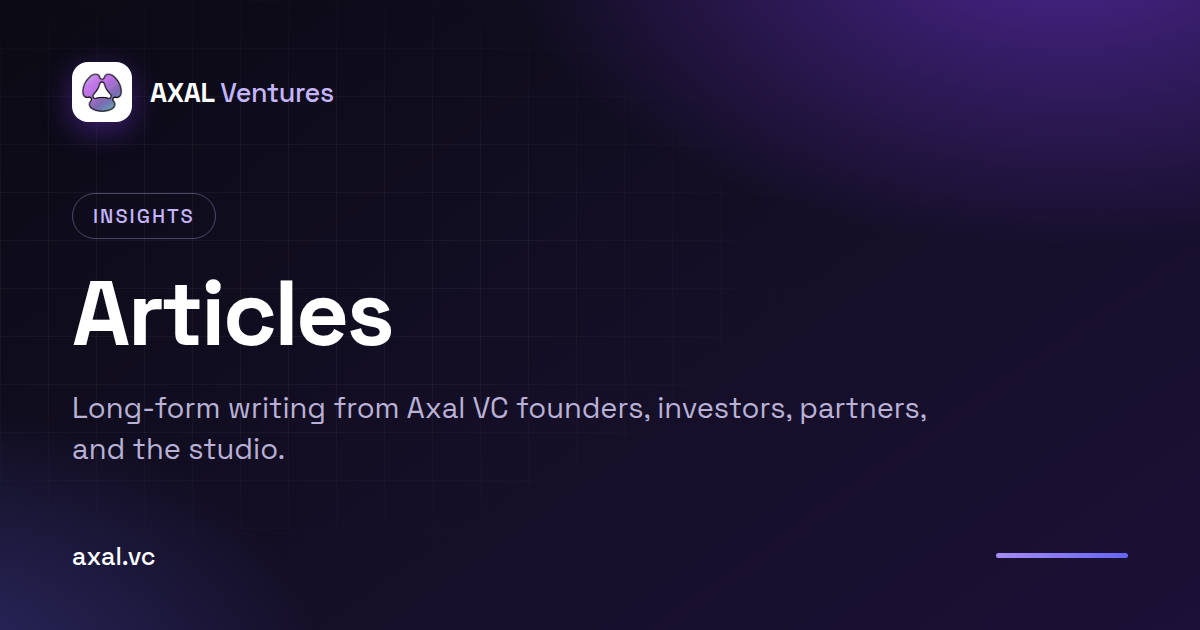
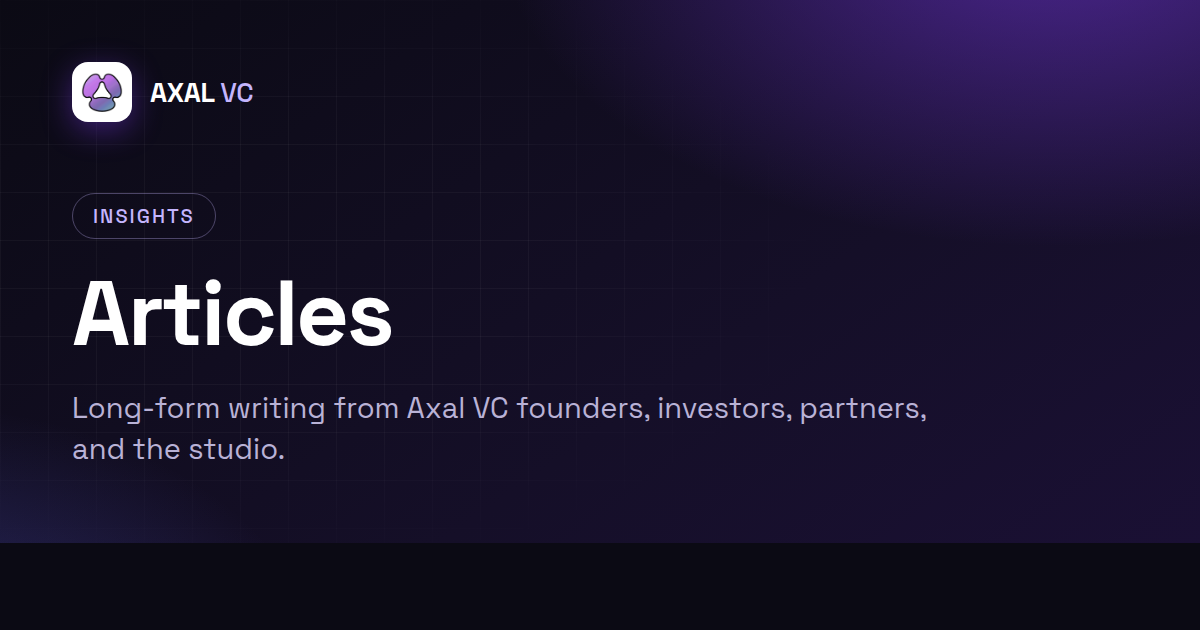
OG: fix legacy brand name on cards; clear three Semgrep findings
Brand
-----
The cards said "Axal Ventures" — the legacy name. CHANGELOG.md:4231 already
records the rename ("Axal Ventures" -> "Axal VC"); this script reintroduced it
in seven places, and unlike a string in a JS bundle it was BAKED INTO THE PNGs
that WhatsApp/iMessage/LinkedIn show. ogRegistry.js had it right throughout, so
the cards disagreed with their own metadata.

Six were the `eyebrow`/section labels. The seventh was the logo lockup, written
as `AXAL <span>Ventures</span>` — split across elements, so a search for the
literal string never matched it. All 13 cards re-rendered; verified visually.

Semgrep (3 findings, all in this PR's new scripts)
--------------------------------------------------
Both are false positives as stated — these are build scripts with no external
input — but both had a cleaner form that removes the construct entirely rather
than suppressing the rule.

- generate-og-images.mjs `unknown-value-with-script-tag`: the viewport probe
  wrote a page with an inline <script> that reported innerHeight. Replaced with
  a screenshot of a blank page, measured via the pngSize() helper already in
  this file. Measures the artifact we actually care about, and leaves no inline
  <script> for a scanner to reason about. Verified live: all 13 cards still come
  out at exactly 1200x630, which is what the probe exists to guarantee — a
  broken offset yields 1200x543.

- validate-og-tags.mjs `detect-non-literal-regexp` (x2): meta() and countTag()
[…]

Changed region(s): [[0.4933, 0.8444, 1.0, 1.0], [0.0, 0.8444, 0.2467, 1.0], [0.185, 0.1206, 0.2775, 0.181]]

diff --git a/docs/for-service-partners/index.html b/docs/for-service-partners/index.html
@@ -12,8 +12,8 @@
   <meta property="og:title" content="For Service Partners — Axal VC StudioOS" />
   <meta property="og:description" content="List your services in the Axal VC marketplace, get in front of funded founders, and turn network trust into inbound leads. Distribution for legal, design, GTM and technical partners." />
   <meta property="og:url" content="https://axal.vc/for-service-partners" />
-  <meta property="og:image" content="https://axal.vc/og/product-service-partners.png?v=b3464c1d" />
-  <meta property="og:image:secure_url" content="https://axal.vc/og/product-service-partners.png?v=b3464c1d" />
+  <meta property="og:image" content="https://axal.vc/og/product-service-partners.png?v=b64d1e59" />
+  <meta property="og:image:secure_url" content="https://axal.vc/og/product-service-partners.png?v=b64d1e59" />
   <meta property="og:image:type" content="image/png" />
   <meta property="og:image:width" content="1200" />
   <meta property="og:image:height" content="630" />
@@ -22,7 +22,7 @@
   <meta name="twitter:card" content="summary_large_image" />
   <meta name="twitter:title" content="For Service Partners — Axal VC StudioOS" />
   <meta name="twitter:description" content="List your services in the Axal VC marketplace, get in front of funded founders, and turn network trust into inbound leads. Distribution for legal, design, GTM and technical partners." />
-  <meta name="twitter:image" content="https://axal.vc/og/product-service-partners.png?v=b3464c1d" />
+  <meta name="twitter:image" content="https://axal.vc/og/product-service-partners.png?v=b64d1e59" />
   <meta name="twitter:image:alt" content="For Service Partners" />
   <!-- END og:managed -->
   <script>

diff --git a/docs/for-investors/index.html b/docs/for-investors/index.html
@@ -12,8 +12,8 @@
   <meta property="og:title" content="For Investors &amp; LPs — Axal VC StudioOS" />
   <meta property="og:description" content="Source, screen and diligence better deals in less time. AI scoring, a built-in CRM, warm founder intros and portfolio visibility for angels, funds and LPs." />
   <meta property="og:url" content="https://axal.vc/for-investors" />
-  <meta property="og:image" content="https://axal.vc/og/product-investors.png?v=7cd298a0" />
-  <meta property="og:image:secure_url" content="https://axal.vc/og/product-investors.png?v=7cd298a0" />
+  <meta property="og:image" content="https://axal.vc/og/product-investors.png?v=f54ae8c5" />
+  <meta property="og:image:secure_url" content="https://axal.vc/og/product-investors.png?v=f54ae8c5" />
   <meta property="og:image:type" content="image/png" />
   <meta property="og:image:width" content="1200" />
   <meta property="og:image:height" content="630" />
@@ -22,7 +22,7 @@
   <meta name="twitter:card" content="summary_large_image" />
   <meta name="twitter:title" content="For Investors &amp; LPs — Axal VC StudioOS" />
   <meta name="twitter:description" content="Source, screen and diligence better deals in less time. AI scoring, a built-in CRM, warm founder intros and portfolio visibility for angels, funds and LPs." />
-  <meta name="twitter:image" content="https://axal.vc/og/product-investors.png?v=7cd298a0" />
+  <meta name="twitter:image" content="https://axal.vc/og/product-investors.png?v=f54ae8c5" />
   <meta name="twitter:image:alt" content="For Investors &amp; LPs" />
   <!-- END og:managed -->
   <script>

diff --git a/docs/for-founders/index.html b/docs/for-founders/index.html
@@ -12,8 +12,8 @@
   <meta property="og:title" content="For Founders — Axal VC StudioOS" />
   <meta property="og:description" content="Everything you need to go from idea to funded — a startup workspace, pitch deck builder, venture-readiness scoring, and warm investor intros on the Axal VC network." />
   <meta property="og:url" content="https://axal.vc/for-founders" />
-  <meta property="og:image" content="https://axal.vc/og/product-founders.png?v=735998bb" />
-  <meta property="og:image:secure_url" content="https://axal.vc/og/product-founders.png?v=735998bb" />
+  <meta property="og:image" content="https://axal.vc/og/product-founders.png?v=dece2995" />
+  <meta property="og:image:secure_url" content="https://axal.vc/og/product-founders.png?v=dece2995" />
   <meta property="og:image:type" content="image/png" />
   <meta property="og:image:width" content="1200" />
   <meta property="og:image:height" content="630" />
@@ -22,7 +22,7 @@
   <meta name="twitter:card" content="summary_large_image" />
   <meta name="twitter:title" content="For Founders — Axal VC StudioOS" />
   <meta name="twitter:description" content="Everything you need to go from idea to funded — a startup workspace, pitch deck builder, venture-readiness scoring, and warm investor intros on the Axal VC network." />
-  <meta name="twitter:image" content="https://axal.vc/og/product-founders.png?v=735998bb" />
+  <meta name="twitter:image" content="https://axal.vc/og/product-founders.png?v=dece2995" />
   <meta name="twitter:image:alt" content="For Founders" />
   <!-- END og:managed -->
   <script>

diff --git a/docs/for-advisors/index.html b/docs/for-advisors/index.html
@@ -12,8 +12,8 @@
   <meta property="og:title" content="For Advisors — Axal VC StudioOS" />
   <meta property="og:description" content="Build a credible advisor profile, get matched with founders who need your expertise, and run sessions through structured office hours on the Axal VC network." />
   <meta property="og:url" content="https://axal.vc/for-advisors" />
-  <meta property="og:image" content="https://axal.vc/og/product-advisors.png?v=dd0b822a" />
-  <meta property="og:image:secure_url" content="https://axal.vc/og/product-advisors.png?v=dd0b822a" />
+  <meta property="og:image" content="https://axal.vc/og/product-advisors.png?v=78559744" />
+  <meta property="og:image:secure_url" content="https://axal.vc/og/product-advisors.png?v=78559744" />
   <meta property="og:image:type" content="image/png" />
   <meta property="og:image:width" content="1200" />
   <meta property="og:image:height" content="630" />
@@ -22,7 +22,7 @@
   <meta name="twitter:card" content="summary_large_image" />
   <meta name="twitter:title" content="For Advisors — Axal VC StudioOS" />
   <meta name="twitter:description" content="Build a credible advisor profile, get matched with founders who need your expertise, and run sessions through structured office hours on the Axal VC network." />
-  <meta name="twitter:image" content="https://axal.vc/og/product-advisors.png?v=dd0b822a" />
+  <meta name="twitter:image" content="https://axal.vc/og/product-advisors.png?v=78559744" />
   <meta name="twitter:image:alt" content="For Advisors" />
   <!-- END og:managed -->
   <script>

diff --git a/docs/spinout-lab/index.html b/docs/spinout-lab/index.html
@@ -12,8 +12,8 @@
   <meta property="og:title" content="Spin-Out Lab — Axal VC StudioOS" />
   <meta property="og:description" content="A structured sprint that takes a company from idea to incorporated and funded — customer discovery, venture-readiness scoring, entity formation, and demo day." />
   <meta property="og:url" content="https://axal.vc/spinout-lab" />
-  <meta property="og:image" content="https://axal.vc/og/spinout-lab.png?v=06c7aee7" />
-  <meta property="og:image:secure_url" content="https://axal.vc/og/spinout-lab.png?v=06c7aee7" />
+  <meta property="og:image" content="https://axal.vc/og/spinout-lab.png?v=c72b2c5b" />
+  <meta property="og:image:secure_url" content="https://axal.vc/og/spinout-lab.png?v=c72b2c5b" />
   <meta property="og:image:type" content="image/png" />
   <meta property="og:image:width" content="1200" />
   <meta property="og:image:height" content="630" />
@@ -22,7 +22,7 @@
   <meta name="twitter:card" content="summary_large_image" />
   <meta name="twitter:title" content="Spin-Out Lab — Axal VC StudioOS" />
   <meta name="twitter:description" content="A structured sprint that takes a company from idea to incorporated and funded — customer discovery, venture-readiness scoring, entity formation, and demo day." />
-  <meta name="twitter:image" content="https://axal.vc/og/spinout-lab.png?v=06c7aee7" />
+  <meta name="twitter:image" content="https://axal.vc/og/spinout-lab.png?v=c72b2c5b" />
   <meta name="twitter:image:alt" content="Spin-Out Lab" />
   <!-- END og:managed -->
   <script>

diff --git a/docs/index.html b/docs/index.html
@@ -12,8 +12,8 @@
   <meta property="og:title" content="From idea to funded company — Axal VC StudioOS" />
   <meta property="og:description" content="One network connecting partners, capital, and founders. Spin-Out Lab takes companies from idea to funded in 30 days." />
   <meta property="og:url" content="https://axal.vc/" />
-  <meta property="og:image" content="https://axal.vc/og/home.png?v=1e0dde2f" />
-  <meta property="og:image:secure_url" content="https://axal.vc/og/home.png?v=1e0dde2f" />
+  <meta property="og:image" content="https://axal.vc/og/home.png?v=88aa287c" />
+  <meta property="og:image:secure_url" content="https://axal.vc/og/home.png?v=88aa287c" />
   <meta property="og:image:type" content="image/png" />
   <meta property="og:image:width" content="1200" />
   <meta property="og:image:height" content="630" />
@@ -22,7 +22,7 @@
   <meta name="twitter:card" content="summary_large_image" />
   <meta name="twitter:title" content="From idea to funded company — Axal VC StudioOS" />
   <meta name="twitter:description" content="One network connecting partners, capital, and founders. Spin-Out Lab takes companies from idea to funded in 30 days." />
-  <meta name="twitter:image" content="https://axal.vc/og/home.png?v=1e0dde2f" />
+  <meta name="twitter:image" content="https://axal.vc/og/home.png?v=88aa287c" />
   <meta name="twitter:image:alt" content="From idea to funded company" />
   <!-- END og:managed -->
   <script>

diff --git a/docs/demo/index.html b/docs/demo/index.html
@@ -12,8 +12,8 @@
   <meta property="og:title" content="Book a demo — Axal VC StudioOS" />
   <meta property="og:description" content="See Axal VC StudioOS live — pick a product demo, investor brief, or partnership intro." />
   <meta property="og:url" content="https://axal.vc/demo" />
-  <meta property="og:image" content="https://axal.vc/og/company.png?v=7d75c4c4" />
-  <meta property="og:image:secure_url" content="https://axal.vc/og/company.png?v=7d75c4c4" />
+  <meta property="og:image" content="https://axal.vc/og/company.png?v=4c30a70f" />
+  <meta property="og:image:secure_url" content="https://axal.vc/og/company.png?v=4c30a70f" />
   <meta property="og:image:type" content="image/png" />
   <meta property="og:image:width" content="1200" />
   <meta property="og:image:height" content="630" />
@@ -22,7 +22,7 @@
   <meta name="twitter:card" content="summary_large_image" />
   <meta name="twitter:title" content="Book a demo — Axal VC StudioOS" />
   <meta name="twitter:description" content="See Axal VC StudioOS live — pick a product demo, investor brief, or partnership intro." />
-  <meta name="twitter:image" content="https://axal.vc/og/company.png?v=7d75c4c4" />
+  <meta name="twitter:image" content="https://axal.vc/og/company.png?v=4c30a70f" />
   <meta name="twitter:image:alt" content="Book a demo" />
   <!-- END og:managed -->
   <script>

diff --git a/docs/about/index.html b/docs/about/index.html
@@ -12,8 +12,8 @@
   <meta property="og:title" content="About — Axal VC StudioOS" />
   <meta property="og:description" content="Who we are, how the studio operates, and why we build companies alongside the founders we back." />
   <meta property="og:url" content="https://axal.vc/about" />
-  <meta property="og:image" content="https://axal.vc/og/company.png?v=7d75c4c4" />
-  <meta property="og:image:secure_url" content="https://axal.vc/og/company.png?v=7d75c4c4" />
+  <meta property="og:image" content="https://axal.vc/og/company.png?v=4c30a70f" />
+  <meta property="og:image:secure_url" content="https://axal.vc/og/company.png?v=4c30a70f" />
   <meta property="og:image:type" content="image/png" />
   <meta property="og:image:width" content="1200" />
   <meta property="og:image:height" content="630" />
@@ -22,7 +22,7 @@
   <meta name="twitter:card" content="summary_large_image" />
   <meta name="twitter:title" content="About — Axal VC StudioOS" />
   <meta name="twitter:description" content="Who we are, how the studio operates, and why we build companies alongside the founders we back." />
-  <meta name="twitter:image" content="https://axal.vc/og/company.png?v=7d75c4c4" />
+  <meta name="twitter:image" content="https://axal.vc/og/company.png?v=4c30a70f" />
   <meta name="twitter:image:alt" content="About" />
   <!-- END og:managed -->
   <script>

diff --git a/docs/pricing/index.html b/docs/pricing/index.html
@@ -12,8 +12,8 @@
   <meta property="og:title" content="Pricing — Axal VC StudioOS" />
   <meta property="og:description" content="Simple, transparent pricing for founders and investors. Start free, upgrade when you raise." />
   <meta property="og:url" content="https://axal.vc/pricing" />
-  <meta property="og:image" content="https://axal.vc/og/pricing.png?v=78d39a47" />
-  <meta property="og:image:secure_url" content="https://axal.vc/og/pricing.png?v=78d39a47" />
+  <meta property="og:image" content="https://axal.vc/og/pricing.png?v=410ae5e8" />
+  <meta property="og:image:secure_url" content="https://axal.vc/og/pricing.png?v=410ae5e8" />
   <meta property="og:image:type" content="image/png" />
   <meta property="og:image:width" content="1200" />
   <meta property="og:image:height" content="630" />
@@ -22,7 +22,7 @@
   <meta name="twitter:card" content="summary_large_image" />
   <meta name="twitter:title" content="Pricing — Axal VC StudioOS" />
   <meta name="twitter:description" content="Simple, transparent pricing for founders and investors. Start free, upgrade when you raise." />
-  <meta name="twitter:image" content="https://axal.vc/og/pricing.png?v=78d39a47" />
+  <meta name="twitter:image" content="https://axal.vc/og/pricing.png?v=410ae5e8" />
   <meta name="twitter:image:alt" content="Pricing" />
   <!-- END og:managed -->
   <script>

diff --git a/docs/status/index.html b/docs/status/index.html
@@ -12,8 +12,8 @@
   <meta property="og:title" content="System status — Axal VC StudioOS" />
   <meta property="og:description" content="Real-time health of Axal VC StudioOS services, plus a 90-day uptime history." />
   <meta property="og:url" content="https://axal.vc/status" />
-  <meta property="og:image" content="https://axal.vc/og/company.png?v=7d75c4c4" />
-  <meta property="og:image:secure_url" content="https://axal.vc/og/company.png?v=7d75c4c4" />
+  <meta property="og:image" content="https://axal.vc/og/company.png?v=4c30a70f" />
+  <meta property="og:image:secure_url" content="https://axal.vc/og/company.png?v=4c30a70f" />
   <meta property="og:image:type" content="image/png" />
   <meta property="og:image:width" content="1200" />
   <meta property="og:image:height" content="630" />
@@ -22,7 +22,7 @@
   <meta name="twitter:card" content="summary_large_image" />
   <meta name="twitter:title" content="System status — Axal VC StudioOS" />
   <meta name="twitter:description" content="Real-time health of Axal VC StudioOS services, plus a 90-day uptime history." />
-  <meta name="twitter:image" content="https://axal.vc/og/company.png?v=7d75c4c4" />
+  <meta name="twitter:image" content="https://axal.vc/og/company.png?v=4c30a70f" />
   <meta name="twitter:image:alt" content="System status" />
   <!-- END og:managed -->
   <script>

diff --git a/docs/articles/index.html b/docs/articles/index.html
@@ -12,8 +12,8 @@
   <meta property="og:title" content="Articles — Axal VC StudioOS" />
   <meta property="og:description" content="Long-form writing from Axal VC founders, investors, partners, and the studio." />
   <meta property="og:url" content="https://axal.vc/articles" />
-  <meta property="og:image" content="https://axal.vc/og/articles.png?v=e363a4a0" />
-  <meta property="og:image:secure_url" content="https://axal.vc/og/articles.png?v=e363a4a0" />
+  <meta property="og:image" content="https://axal.vc/og/articles.png?v=a58fa6df" />
+  <meta property="og:image:secure_url" content="https://axal.vc/og/articles.png?v=a58fa6df" />
   <meta property="og:image:type" content="image/png" />
   <meta property="og:image:width" content="1200" />
   <meta property="og:image:height" content="630" />
@@ -22,7 +22,7 @@
   <meta name="twitter:card" content="summary_large_image" />
   <meta name="twitter:title" content="Articles — Axal VC StudioOS" />
   <meta name="twitter:description" content="Long-form writing from Axal VC founders, investors, partners, and the studio." />
-  <meta name="twitter:image" content="https://axal.vc/og/articles.png?v=e363a4a0" />
+  <meta name="twitter:image" content="https://axal.vc/og/articles.png?v=a58fa6df" />
   <meta name="twitter:image:alt" content="Articles" />
   <!-- END og:managed -->
   <script>

diff --git a/docs/contact/index.html b/docs/contact/index.html
@@ -12,8 +12,8 @@
   <meta property="og:title" content="Contact — Axal VC StudioOS" />
   <meta property="og:description" content="Talk to the Axal VC team — founders, investors, advisors, and service partners." />
   <meta property="og:url" content="https://axal.vc/contact" />
-  <meta property="og:image" content="https://axal.vc/og/company.png?v=7d75c4c4" />
-  <meta property="og:image:secure_url" content="https://axal.vc/og/company.png?v=7d75c4c4" />
+  <meta property="og:image" content="https://axal.vc/og/company.png?v=4c30a70f" />
+  <meta property="og:image:secure_url" content="https://axal.vc/og/company.png?v=4c30a70f" />
   <meta property="og:image:type" content="image/png" />
   <meta property="og:image:width" content="1200" />
   <meta property="og:image:height" content="630" />
@@ -22,7 +22,7 @@
   <meta name="twitter:card" content="summary_large_image" />
   <meta name="twitter:title" content="Contact — Axal VC StudioOS" />
   <meta name="twitter:description" content="Talk to the Axal VC team — founders, investors, advisors, and service partners." />
-  <meta name="twitter:image" content="https://axal.vc/og/company.png?v=7d75c4c4" />
+  <meta name="twitter:image" content="https://axal.vc/og/company.png?v=4c30a70f" />
   <meta name="twitter:image:alt" content="Contact" />
   <!-- END og:managed -->
   <script>
